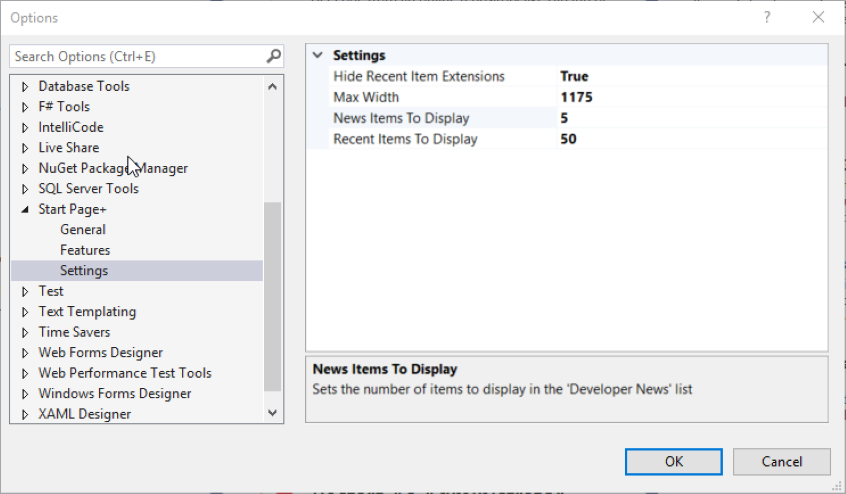
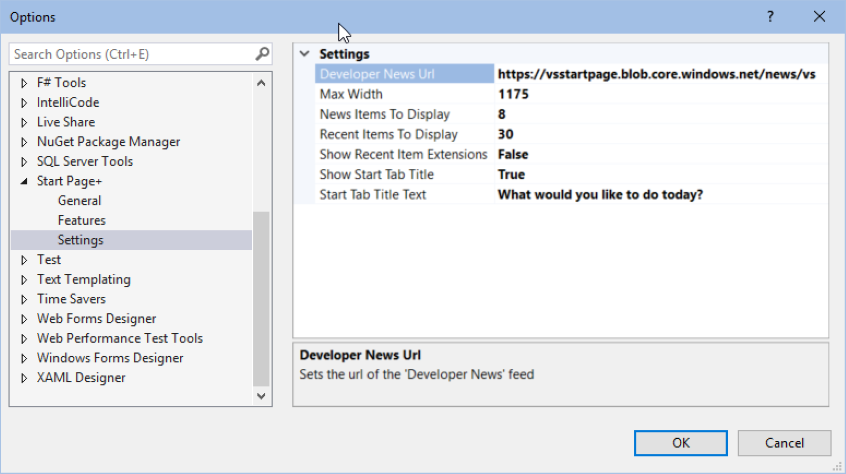
Update documentation source files (v0.14.3.35)
#1231

diff --git a/docs-source/changelog.md b/docs-source/changelog.md
@@ -26,14 +26,15 @@ page on the [Start Page+][start-page-plus-url] website.
     - opens the website's changelog page
   - an **Options** button to the right of the version number in the *Get Started* column
     - opens `Tools` | `Options` | `Start Page+` | `General`
+  - a **Start Page+ Options** menu item to open `Tools` | `Options` | `Start Page+` | `General`
+    - found in `Tools` | `Options`
   - new options pages (**Features**, **Settings**)
   - a **Recent Items to Display** setting
-  - a **News Items to Display** setting
   - a **Hide Extensions** setting to hide a project/solution's extension in *Recent Items* list
   - a setting to **display**, or **not display**, the *Start* tab's title
   - a setting that allows you to **change** the *Start* tab's title text
-  - a **Start Page+ Options** menu item to open `Tools` | `Options` | `Start Page+` | `General`
-    - found in `Tools` | `Options`
+  - a **News Items to Display** setting
+  - a **Developer News Url** setting
 
 [github-issue-20]: https://github.com/luminous-software/start-page-plus/issues/20
 [github-issue-21]: https://github.com/luminous-software/start-page-plus/issues/21

diff --git a/docs-source/features.md b/docs-source/features.md
@@ -179,9 +179,23 @@ The default value is `true`.
 
 ![Feature Options](assets/images/options-settings.png)
 
+### Developer News Url
+
+This setting allows you to change the feed url for *Developer News* to any RSS feed that you choose.
+
+Microsoft is currently still maintaining the original feed, but could stop doing that at any time.
+You could choose to use the *Visual Studio Blog* feed url instead if you wanted.
+
+In the past the two feeds have displayed a different set of posts,
+with Visual Studio Blog having more posts that the Developer News feed.
+But it seems that may currently have the same items.
+The *Visual Studio Blog* feed url is `https://devblogs.microsoft.com/visualstudio/feed/`.
+
+The default value is `https://vsstartpage.blob.core.windows.net/news/vs`.
+
 ### Max Width
 
-Thei setting will allow you to make the contents of the _Start Page+_ window wider or narrower
+This setting will allow you to make the contents of the _Start Page+_ window wider or narrower
 
 The default value is `1175`.
 
